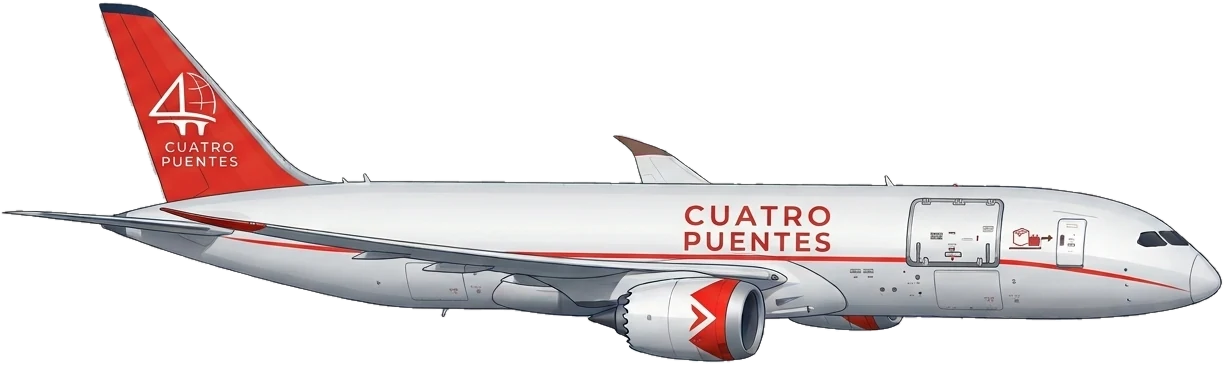
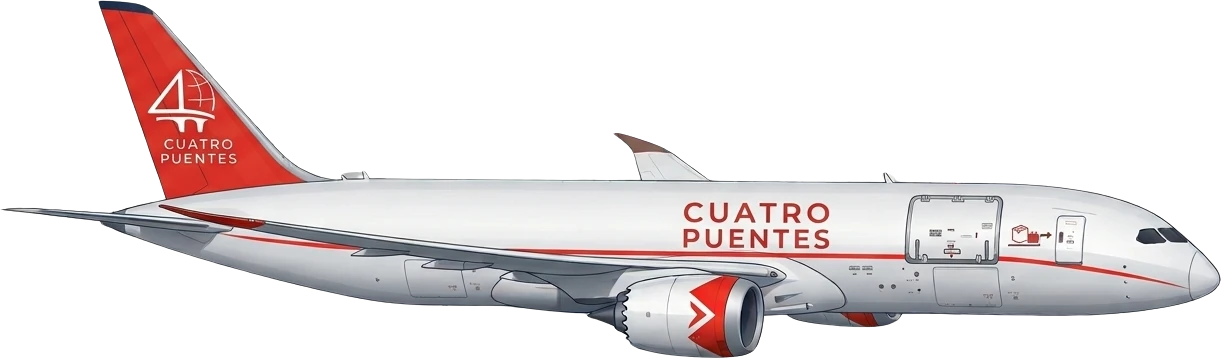
Avión definitivo, espaciado -20% y documentación al día
Avión
- Se reemplaza por el PNG nuevo del cliente, que sí trae transparencia real
  (85% del lienzo). El anterior traía el damero PINTADO en la imagen y hubo
  que recortarlo por código; ese script ya no hace falta y se elimina. La
  técnica queda en el historial por si vuelve a llegar un asset así.

Espaciado
- --gap-section baja un 20%: de clamp(80px, 9vw, 136px) a
  clamp(64px, 7.2vw, 109px).

Documentación
- ARQUITECTURA.md decía que el build local estaba roto en esta máquina. Era
  falso: funciona, solo que la primera compilación tras borrar .next tarda
  4-5 minutos por el chequeo de TypeScript y Next no imprime nada hasta el
  final. Lo que parecía un cuelgue era eso más timeouts cortándolo.
- Se corrigen además datos que habían quedado viejos: el color de los
  botones (#FA382B, no #B8443D), cómo funciona el velo del titular ahora
  que la segunda línea es roja, el mapa con ocho orígenes, y la tabla de
  contrastes con los valores medidos en producción.

diff --git a/components/Avion.tsx b/components/Avion.tsx
@@ -14,8 +14,8 @@ export default function Avion() {
         <Image
           src="/avion.webp"
           alt=""
-          width={1224}
-          height={365}
+          width={1221}
+          height={358}
           sizes="(max-width: 900px) 96vw, 58vw"
         />
       </div>

diff --git a/app/globals.css b/app/globals.css
@@ -70,7 +70,8 @@
   --sky-filter: none;
 
   --wrap: 1140px;
-  --gap-section: clamp(80px, 9vw, 136px);
+  /* -20% respecto del original clamp(80px, 9vw, 136px) */
+  --gap-section: clamp(64px, 7.2vw, 109px);
   --gap-head: clamp(40px, 4.4vw, 64px);
 }
 

diff --git a/ARQUITECTURA.md b/ARQUITECTURA.md
@@ -22,10 +22,13 @@ oscuro implica rediseñar el hero.
 
 ### Reglas de color que no se pueden romper
 
-- **El relleno de botones es `--color-accent-btn` (#B8443D), no el coral
-  #F2645C.** El coral con texto blanco da 3.11:1 y no cumple el mínimo AA de
-  4.5:1. El coral se usa donde no lleva texto encima: iconos, puntos del mapa,
-  detalles.
+- **El rojo de marca es `#FA382B`** (`--color-accent-btn`), definido por el
+  cliente. Con texto blanco da **3.71:1**: cumple el mínimo AA **solo para texto
+  grande**. Por eso las etiquetas de los botones van a **19px en negrita**
+  (`text-[1.12rem] font-bold`) y no al tamaño de cuerpo. **Si alguien las achica,
+  el botón deja de cumplir.**
+- El coral `#F2645C` (`--color-terra-400`) queda para donde no lleva texto
+  encima: iconos, líneas base del mapa, detalles.
 - **Solo dos bloques de color en toda la página**: la sección "Cómo funciona"
   (terracota sólido) y el pie. Todo lo demás va blanco. Agregar un tercero
   rompe el ritmo que el cliente aprobó.
@@ -51,17 +54,17 @@ colgar.
 
 ### El velo del titular
 
-El titular tiene dos líneas de colores opuestos: blanca y azul marino. **La
-blanca necesita fondo oscuro y la marino necesita fondo claro — con un solo
-tono de fondo es matemáticamente imposible que ambas cumplan contraste.**
+Las dos líneas son blanca y roja `#FA382B`, sobre una foto de cielo. El rojo es
+de **luminancia media**, casi idéntica a la del azul del cielo (0.233 contra
+0.251): sobre el cielo sin tratar mide **1.06:1**, es decir, se pierde.
 
-`.hero__scrim` resuelve eso con bandas horizontales: oscurece la franja de la
-línea blanca, aclara la de la línea marino, y se disuelve hacia la derecha con
-`mask-image` para no ensuciar la foto donde no hay texto.
+La clave, y es contraintuitiva: **con este rojo, aclarar el fondo lo empeora y
+oscurecerlo lo salva.** Por eso `.hero__scrim` aplica un velo oscuro parejo
+sobre la columna de texto, y se disuelve hacia la derecha con `mask-image` para
+no ensuciar la foto donde no hay texto. Con el velo, el rojo llega a **4.57:1**.
 
-Si mueves el titular verticalmente, **hay que mover las paradas del gradiente**
-o la línea marino queda ilegible. Los porcentajes del velo están calzados con
-las posiciones reales del texto.
+No cambies el velo por uno claro ni lo quites "porque tapa la foto": el titular
+depende de él para leerse.
 
 ### Dos trampas del hero
 
@@ -85,10 +88,22 @@ que por cada punto de la grilla invierte Robinson para obtener lat/lon, corrige
 el meridiano central y vuelve a proyectar sobre el ráster fuente.
 
 **El meridiano central es 168°, no América exactamente al centro.** Con América
-centrada, China y Emiratos caen en bordes opuestos del mapa y las rutas se
+centrada, los orígenes asiáticos caen en bordes opuestos del mapa y las rutas se
 parten en dos. Centrado en el Pacífico, Asia queda a la izquierda, América a la
-derecha, y todas las rutas entran limpias a Chile. Además los bordes caen en el
+derecha, y las ocho rutas entran limpias a Chile. Además los bordes caen en el
 Atlántico, así África no aparece dos veces.
+
+**El alto no se fija a mano**: se calcula de la proporción real de Robinson para
+la banda de latitudes elegida (`LAT_TOP`/`LAT_BOT`). Ponerlo a mano deforma el
+mapa.
+
+**El punto de destino está mar adentro a propósito** (lon -77.6 en vez de la
+posición real de Valdivia) para que se lea sobre el Pacífico y no encima de la
+costa.
+
+Cada ruta se dibuja dos veces: una línea fija siempre visible (`.mapa__ruta`) y
+un tramo que la recorre (`.mapa__flujo`). Antes era un solo trazo animado que
+aparecía y desaparecía, y parecía que le disparaban a América.
 
 La proyección está verificada contra ciudades conocidas: Valdivia cae a 0.4px
 de la costa en el ráster de 3840px.
@@ -111,6 +126,8 @@ aunque la inserción falle, y registrar el error aparte.
 
 - **Poppins vive en `app/fonts/`**, no se descarga de Google en cada build. El
   build queda determinista y sin depender de la red.
+- **El espaciado entre secciones** sale de `--gap-section`, hoy en
+  `clamp(64px, 7.2vw, 109px)` — un 20% menos que el valor original.
 - Las imágenes son WebP y pasan por `next/image` salvo los fondos, que van por
   CSS porque necesitan `background-size: cover`.
 - El parallax del hero corre en `requestAnimationFrame` con un flag para no
@@ -121,21 +138,31 @@ aunque la inserción falle, y registrar el error aparte.
 Se verificó midiendo el contraste sobre capturas reales del sitio desplegado,
 no sobre los valores del CSS. Los números que importan:
 
-| Elemento | Contraste |
-|---|---|
-| Titular línea 1 | 13.85 |
-| Párrafo del hero | 5.47 |
-| Botón CTA | 5.22 |
-| Números de paso | 6.19 |
-| Texto del pie | 7.28 |
+| Elemento | Contraste | Mínimo |
+|---|---|---|
+| Titular línea 1 (blanca) | 16.92 | 3.0 |
+| Titular línea 2 (`#FA382B`) | 4.57 | 3.0 |
+| Párrafo del hero | 15.09 | 4.5 |
+| Botón CTA (texto blanco) | 3.71 | 3.0 (texto grande) |
+| Números de paso | 6.19 | 4.5 |
+| Texto del pie | 7.28 | 4.5 |
 
 Todas las animaciones respetan `prefers-reduced-motion`. El mapa tiene
 `role="img"` con descripción, y las rutas se dibujan fijas cuando se pide menos
 movimiento.
 
-## Nota sobre el entorno de desarrollo
+## Sobre los tiempos de build
 
-En la máquina donde se construyó esto, `next build` y `next dev` se cuelgan a
-0% de CPU dentro del bootstrap de Node, antes de ejecutar código de Next. No es
-del proyecto: **Vercel compila sin problemas**. Si te pasa lo mismo, verifica
-en el deploy de Vercel en vez de pelear con el build local.
+`npm run build` funciona con normalidad, pero **la primera compilación después
+de borrar `.next` tarda entre 4 y 5 minutos**: casi todo ese tiempo se lo lleva
+el chequeo de TypeScript desde cero. Con la caché de `.next` presente baja a
+unos 15 segundos.
+
+Dos consecuencias prácticas:
+
+- **No borres `.next` para "limpiar"** salvo que haya una razón concreta. Es la
+  caché que hace rápido el build.
+- Next **no imprime nada hasta terminar**: durante esos minutos no verás salida
+  y el proceso aparece a 0% de CPU en varios momentos. Eso es normal, no está
+  colgado. Si lo matas por impaciencia y vuelves a empezar sin caché, entras en
+  un ciclo que parece un cuelgue y no lo es.

diff --git a/PENDIENTES.md b/PENDIENTES.md
@@ -119,12 +119,17 @@ volumen): no correspondía inventarlas.
 - **Container en mayor resolución.** El PNG del cliente es 766×907 y en el hero
   se muestra a ~660 CSS px: en pantallas retina se ve blando. Pedir un export
   al doble.
-- **Avión.** Listo. El PNG que entregó el cliente traía el damero de
-  transparencia *pintado* en la imagen (0% de píxeles realmente transparentes),
-  así que se recortó por código: relleno desde el borde sobre los grises neutros
-  del patrón, y luego se conserva solo la región conectada más grande para
-  eliminar el moteado que dejan los artefactos de compresión. El script está en
-  `scripts/avion.py`.
+- **Avión.** Listo, con el PNG definitivo del cliente
+  (`public/avion.webp`, 1221x358, transparencia real).
+
+  Nota para futuros assets: la **primera** versión que llegó traía el damero de
+  transparencia *pintado dentro de la imagen* — 0% de píxeles realmente
+  transparentes, aunque a la vista pareciera recortada. Si vuelve a pasar, la
+  técnica para recortarlo (relleno desde el borde sobre los grises del patrón +
+  conservar solo la región conectada más grande, porque los artefactos de
+  compresión dejan moteado) está en el historial de git, en `scripts/avion.py`.
+  Siempre conviene verificar el canal alfa antes de dar por buena una imagen
+  "con fondo transparente".
 - **Océano.** Se generó un mar por código derivado del cielo, pero quedó fuera
   de la página: la banda del avión ocupa ese lugar. El archivo sigue en
   `public/oceano.webp` por si se quiere recuperar.
@@ -164,8 +169,12 @@ volumen): no correspondía inventarlas.
 ## 6. Decisiones tomadas que conviene recordar
 
 - **El sitio está fijado en modo claro** (`color-scheme: light`). Se construyó
-  sobre una foto de cielo brillante y el titular en azul marino no sobrevive a un
-  fondo oscurecido. Reactivar el modo oscuro implica rediseñar el hero.
+  sobre una foto de cielo brillante. Reactivar el modo oscuro implica rediseñar
+  el hero.
+- **`npm run build` no está roto.** La primera compilación tras borrar `.next`
+  tarda 4-5 minutos por el chequeo de TypeScript desde cero, y Next no imprime
+  nada hasta terminar. No borres `.next` para "limpiar" y no mates el proceso
+  por impaciencia. Detalle en ARQUITECTURA.md.
 - **El container va a su saturación original.** Se probó bajarlo a la saturación
   de la paleta (66%) y el cliente lo vio apagado respecto de su foto.
 - **El rojo de marca es `#FA382B`**, definido por el cliente. Con texto blanco da
